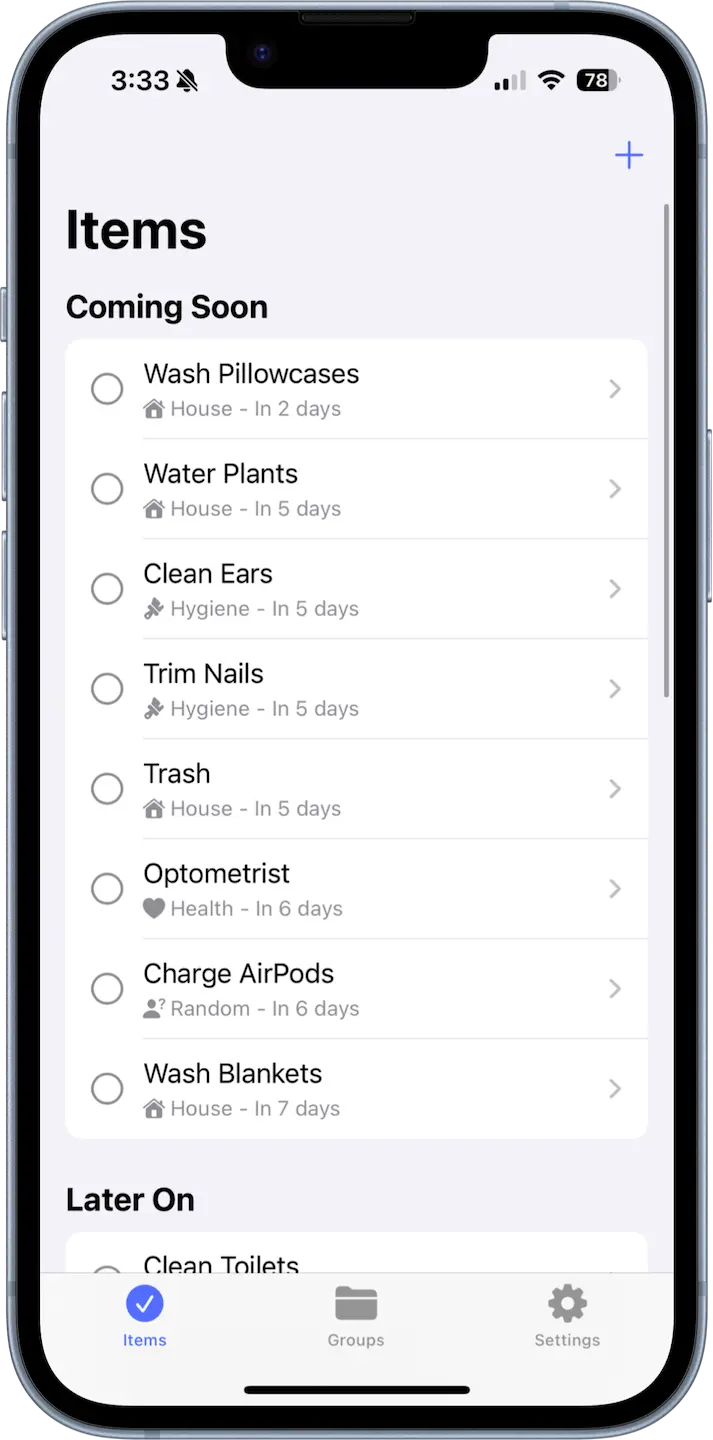
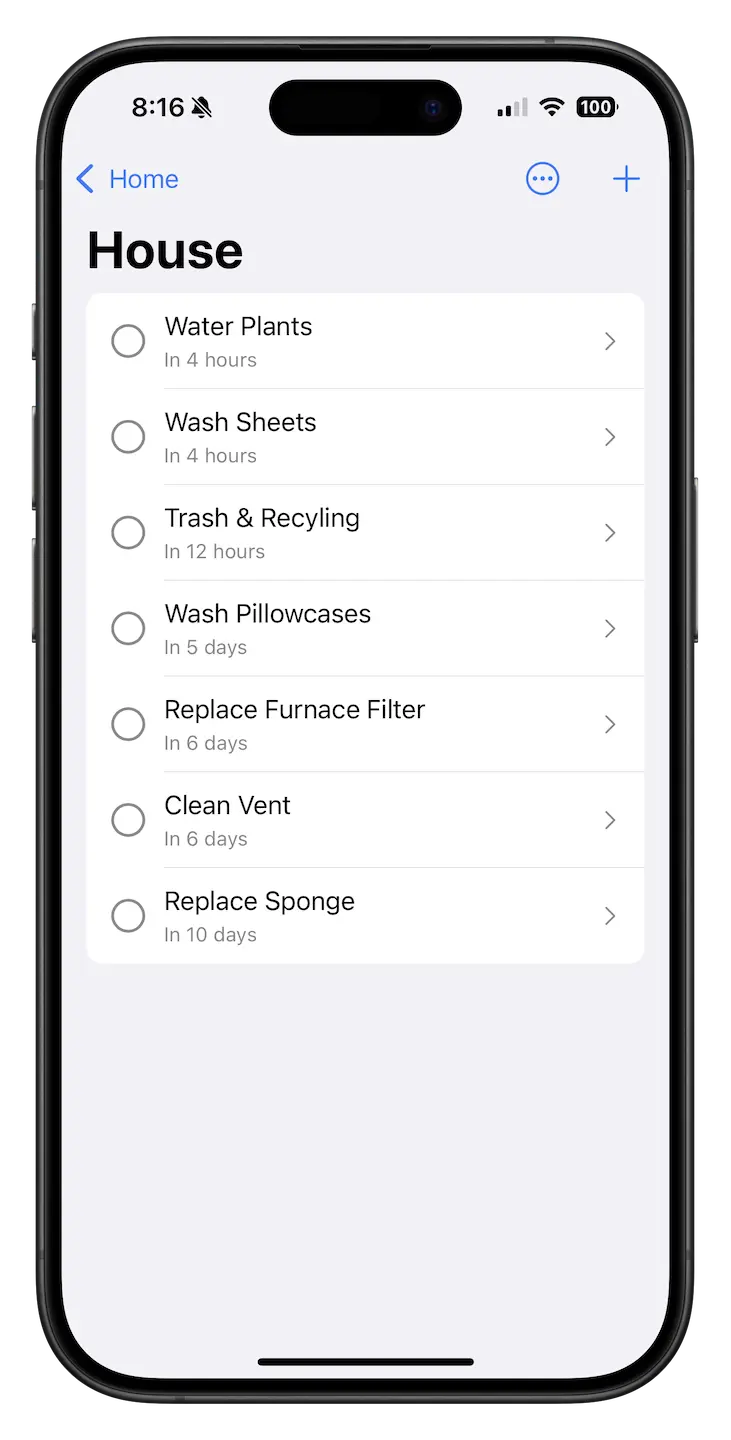
New agone photos

diff --git a/app/apps/agone/page.tsx b/app/apps/agone/page.tsx
@@ -1,8 +1,7 @@
 import Image from 'next/image'
 import { LockClosedIcon } from '@heroicons/react/24/solid'
-import agone from 'assets/agone.svg'
+import home from 'assets/home.webp'
 import items from 'assets/items.webp'
-import groups from 'assets/groups.webp'
 import appStore from 'assets/app-store.svg'
 
 export const metadata = {
@@ -66,7 +65,7 @@ export default function Work() {
         </div>
         <div className="w-[300px] h-[400px] lg:w-[450px] lg:h-[600px] overflow-hidden">
           <Image
-            src={items}
+            src={home}
             alt="View of Agone app in the items view."
             height="909"
             width="450"
@@ -79,7 +78,7 @@ export default function Work() {
           <div className="w-[300px] h-[400px] xl:w-[450px] xl:h-[600px] overflow-hidden order-last xl:order-first">
             <Image
               placeholder="blur"
-              src={groups}
+              src={items}
               alt="View of Agone app in the groups view."
               height="909"
               width="450"
